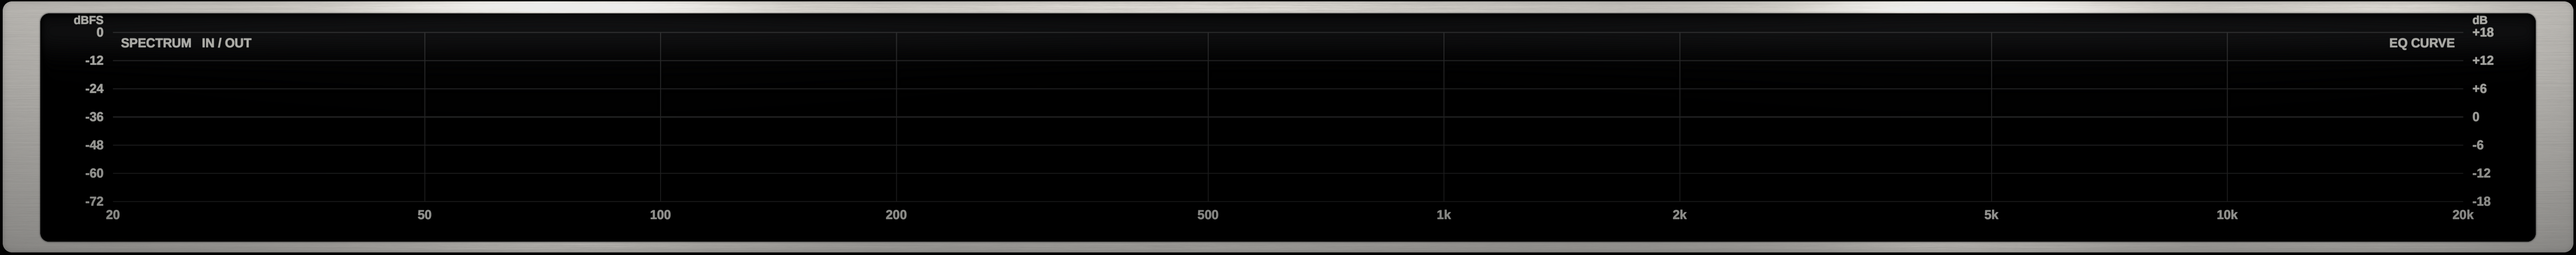
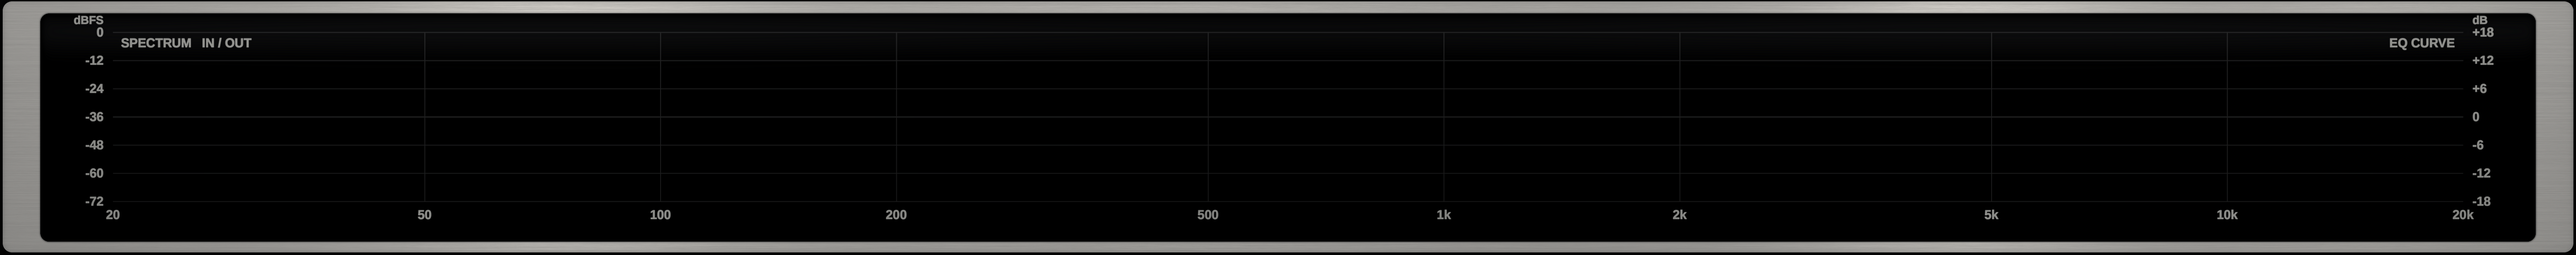
Faceplate and display plate: same aluminium, lit as one surface
- Shared plate material (the display plate's brushing) for both plates
- One top-to-bottom light over faceplate + display (split by their heights),
  so the brightness carries across the seam
- Shorter knob shadows and the display plate's plain edge on the faceplate

Claude-Session: https://claude.ai/code/session_01LNKzgozXbHNsCZNYUohMgB

Changed region(s): [[0.0, 0.0, 1.0, 0.3877]]

diff --git a/tools/render_assets.py b/tools/render_assets.py
@@ -297,6 +297,40 @@ def apply_ink(rgb, ink, colour, brushed, sheen, rng):
 
 
 # --------------------------------------------------------------------------
+# PLATE MATERIAL - one brushed aluminium for the faceplate and the display
+# plate (the display plate's look), lit as ONE surface: 'vg' runs 0..1 over
+# faceplate + display, split by their heights, so the light carries straight
+# across the seam instead of each plate starting bright at its own top.
+# --------------------------------------------------------------------------
+def plate_v(v_local, lower):
+    total = PH + WIN_H
+    return (WIN_H * v_local + PH) / total if lower else (PH * v_local) / total
+
+
+def plate_material(u, vg, rng):
+    hh, ww = u.shape
+
+    def streaks(length, amp):
+        n = T.box_blur_x(rng.normal(size=(hh, ww)).astype(np.float32), length)
+        return amp * n / n.std()
+    brushed = streaks(240, 2.0) + streaks(60, 1.4) + streaks(14, 0.7) + streaks(1350, 1.4)
+    sheen = (0.95 * np.exp(-((u - 0.22) / 0.075) ** 2) + 0.70 * np.exp(-((u - 0.47) / 0.11) ** 2)
+             + 1.00 * np.exp(-((u - 0.76) / 0.06) ** 2) + 0.45 * np.exp(-((u - 0.93) / 0.05) ** 2))
+    sheen *= 0.55 + 0.45 * (1 - vg)
+    return brushed, sheen
+
+
+def plate_rgb(brushed, sheen):
+    metal = 182.0 + 44.0 * sheen + brushed * (0.75 + 1.3 * sheen)
+    return np.dstack([metal * 1.000, metal * 0.990, metal * 0.968]).astype(np.float32)
+
+
+def plate_light(u, vg):
+    light = (1.14 - 0.24 * vg ** 1.1) * (1 - 0.16 * np.abs(2 * u - 1) ** 2.4)
+    return light * (1 - 0.15 * np.exp(-((u - 0.5) / 0.24) ** 2))
+
+
+# --------------------------------------------------------------------------
 # PANEL - same material, ink and lighting pipeline as the Tracker faceplate
 # --------------------------------------------------------------------------
 def render_panel():
@@ -308,18 +342,8 @@ def render_panel():
     def streaks(length, amp):
         n = T.box_blur_x(rng.normal(size=(H, W)).astype(np.float32), length)
         return amp * n / n.std()
-    brushed = streaks(240, 2.0) + streaks(60, 1.4) + streaks(14, 0.7) + streaks(1350, 1.4)
-    sc = (rng.random((H, W)) < 0.0012).astype(np.float32) * rng.normal(1.0, 0.4, (H, W)).astype(np.float32)
-    sc = T.box_blur_x(sc, 630) * 630 / 45.0
-    brushed += 3.0 * np.clip(sc, -1.5, 1.5)
-    band = ndimage.gaussian_filter1d(rng.normal(size=H).astype(np.float32), 4)
-    brushed += 2.0 * band[:, None] / band.std()
-    sheen = (0.95 * np.exp(-((u - 0.22) / 0.075) ** 2) + 0.70 * np.exp(-((u - 0.47) / 0.11) ** 2)
-             + 1.00 * np.exp(-((u - 0.76) / 0.06) ** 2) + 0.45 * np.exp(-((u - 0.93) / 0.05) ** 2))
-    sheen *= 0.55 + 0.45 * (1 - v)
-    sheen += 0.12 * ndimage.gaussian_filter1d(rng.normal(size=W).astype(np.float32), 90)[None, :] * 8
-    metal = 190.0 + 48.0 * sheen + brushed * (0.75 + 1.3 * sheen)
-    rgb = np.dstack([metal * 1.000, metal * 0.990, metal * 0.968]).astype(np.float32)
+    brushed, sheen = plate_material(u, plate_v(v, False), rng)
+    rgb = plate_rgb(brushed, sheen)
 
     # ---- silk-screen ink
     L = T.Legend()
@@ -350,8 +374,8 @@ def render_panel():
     toggles = list(TOGGLES.values())
     for items, R_ in ((large, LARGE_R), (small, SMALL_R)):
         k = R_ / T.KNOB_R
-        shadow += disc_shadow(items, R_ * 1.25, 16.0 * k, 18.0 * k, 0.42)
-        shadow += disc_shadow(items, R_ * 0.98, 9.0 * k, 8.0 * k, 0.45)
+        shadow += disc_shadow(items, R_ * 1.10, 10.0 * k, 9.0 * k, 0.16)   # short, soft pool
+        shadow += disc_shadow(items, R_ * 0.98, 6.0 * k, 5.0 * k, 0.30)
         shadow += disc_shadow(items, R_ * 1.0, 3.0 * k, 3.0 * k, 0.40)
         shadow += disc_shadow(items, R_ * 1.03, 0.6, 1.2, 0.55)
     shadow += disc_shadow(buttons, BUTTON_R * 1.05, 4.0, 4.0, 0.40)
@@ -366,16 +390,8 @@ def render_panel():
         reg = rgb[oy:oy + a.shape[0], ox:ox + a.shape[1]]
         reg[...] = reg * (1 - al) + a[..., :3] * al
 
-    # ---- studio lighting and photographic shine (as on the Tracker)
-    light = 1.20 - 0.30 * v ** 1.25
-    light *= 1 - 0.16 * np.abs(2 * u - 1) ** 2.4
-    light *= 1 + 0.06 * np.exp(-((u - 0.5) / 0.30) ** 2 - ((v - 0.15) / 0.35) ** 2)
-    rgb *= light[..., None]
-    g = u * 0.95 + v * 0.30
-    glare = 0.75 * np.exp(-((g - 0.60) / 0.09) ** 2) + 0.45 * np.exp(-((g - 0.18) / 0.06) ** 2)
-    glare *= 0.65 + 0.35 * (1 - v)
-    rgb += (34.0 * glare)[..., None]
-    rgb *= (1 - 0.15 * np.exp(-((u - 0.5) / 0.24) ** 2))[..., None]
+    # ---- lighting: one light over faceplate + display
+    rgb *= plate_light(u, plate_v(v, False))[..., None]
 
     # ---- outline, ear slots, rack behind
     x0, y0, x1, y1 = PANEL
@@ -384,11 +400,7 @@ def render_panel():
         panel_cov *= 1 - T.rounded_rect_mask(W, H, P(a_), P(b_), P(c_), P(d_), P((d_ - b_) / 2))
     dist = ndimage.distance_transform_edt(panel_cov > 0.5).astype(np.float32)
     edge = np.exp(-dist / P(1.4))
-    gy = ndimage.sobel(ndimage.gaussian_filter(panel_cov, P(0.8)), axis=0)
-    gx = ndimage.sobel(ndimage.gaussian_filter(panel_cov, P(0.8)), axis=1)
-    facing = np.clip(gy * 2.0 + gx * 0.6, -1, 1)
-    rgb *= (1 + 0.28 * facing * edge)[..., None]
-    rgb *= (1 - 0.12 * edge)[..., None]
+    rgb *= (1 - 0.14 * edge)[..., None]                       # same edge as the display plate
     back = np.zeros_like(rgb)
     rail = 22 + 10 * (1 - v) + 1.2 * streaks(9, 1.0)
     back[...] = np.dstack([rail, rail, rail * 1.04])
@@ -567,12 +579,8 @@ def render_window():
         def streaks(length, amp):
             n = T.box_blur_x(rng.normal(size=(WH, W)).astype(np.float32), length)
             return amp * n / n.std()
-        brushed = streaks(240, 2.0) + streaks(60, 1.4) + streaks(14, 0.7) + streaks(1350, 1.4)
-        sheen = (0.95 * np.exp(-((u - 0.22) / 0.075) ** 2) + 0.70 * np.exp(-((u - 0.47) / 0.11) ** 2)
-                 + 1.00 * np.exp(-((u - 0.76) / 0.06) ** 2) + 0.45 * np.exp(-((u - 0.93) / 0.05) ** 2))
-        sheen *= 0.55 + 0.45 * (1 - v)
-        metal = 182.0 + 44.0 * sheen + brushed * (0.75 + 1.3 * sheen)
-        rgb = np.dstack([metal * 1.000, metal * 0.990, metal * 0.968]).astype(np.float32)
+        brushed, sheen = plate_material(u, plate_v(v, True), rng)
+        rgb = plate_rgb(brushed, sheen)
 
         T.glass_window(rgb, WIN_DISPLAY)
         G = T.Legend()       # faint grid
@@ -597,9 +605,7 @@ def render_window():
         T.blend(rgb, (206, 206, 200), ndimage.gaussian_filter(G.mask(), 0.5) * 0.16)
         T.blend(rgb, (206, 206, 200), ndimage.gaussian_filter(Lb.mask(), 0.5) * 0.80)
 
-        light = (1.16 - 0.28 * v ** 1.25) * (1 - 0.16 * np.abs(2 * u - 1) ** 2.4)
-        light *= 1 - 0.15 * np.exp(-((u - 0.5) / 0.24) ** 2)
-        rgb *= light[..., None]
+        rgb *= plate_light(u, plate_v(v, True))[..., None]     # one light over both plates
         cov = T.rounded_rect_mask(W, WH, P(2), P(1), P(PW - 2), P(WIN_H - 2), P(7))
         dist = ndimage.distance_transform_edt(cov > 0.5).astype(np.float32)
         rgb *= (1 - 0.14 * np.exp(-dist / P(1.4)))[..., None]
